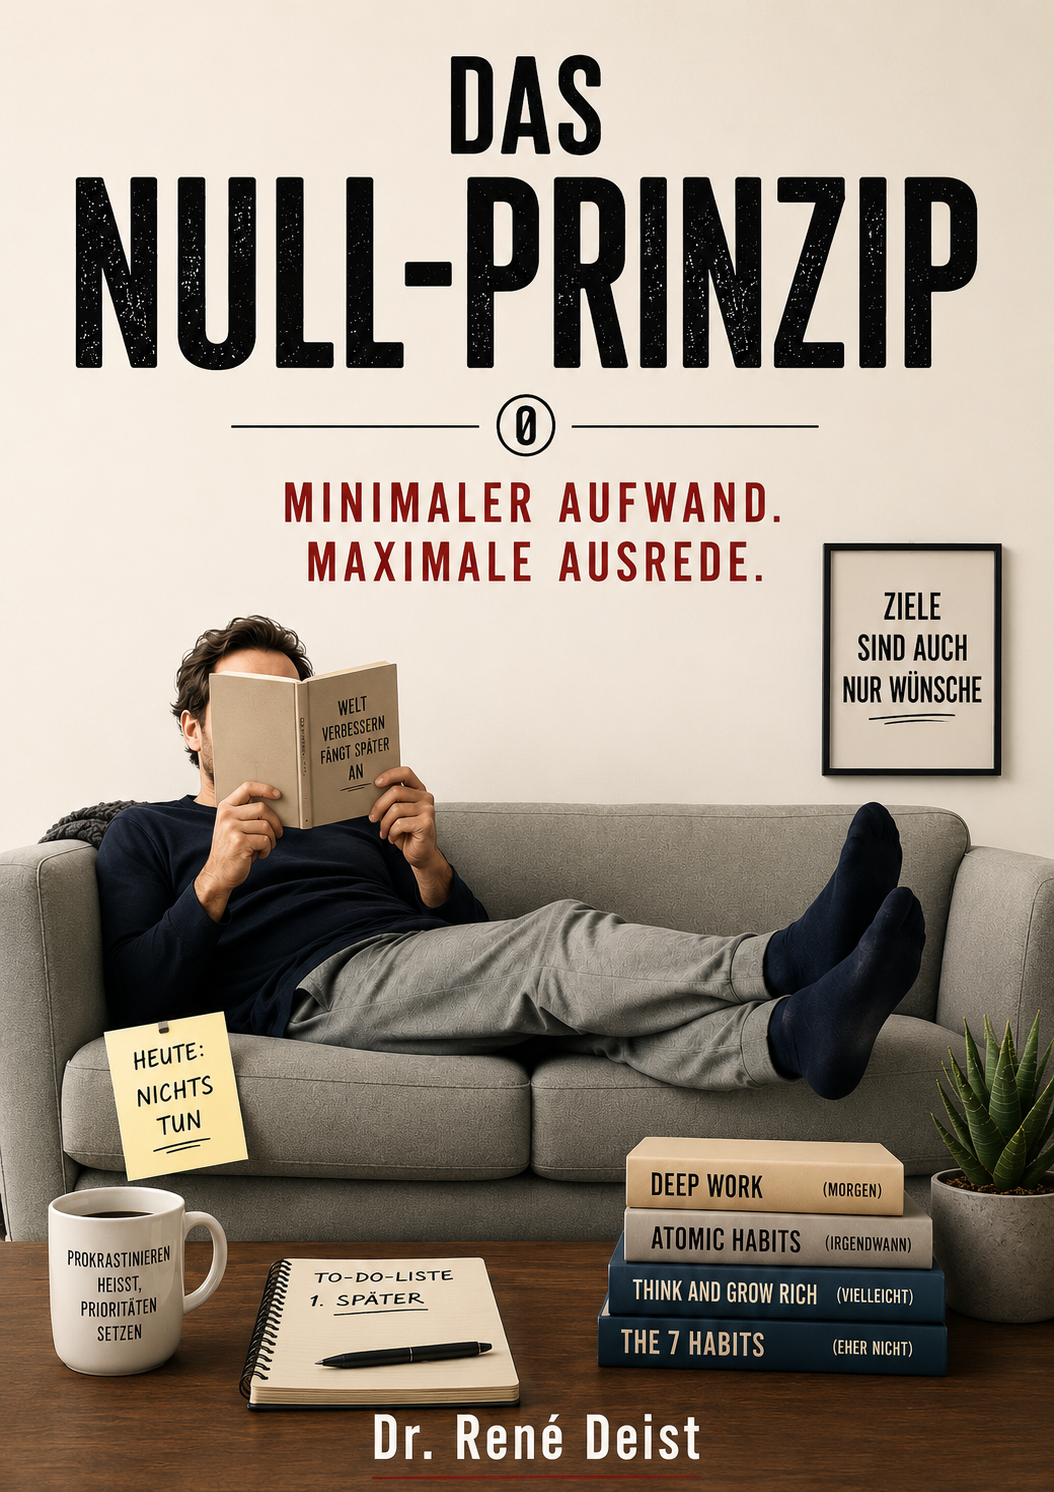
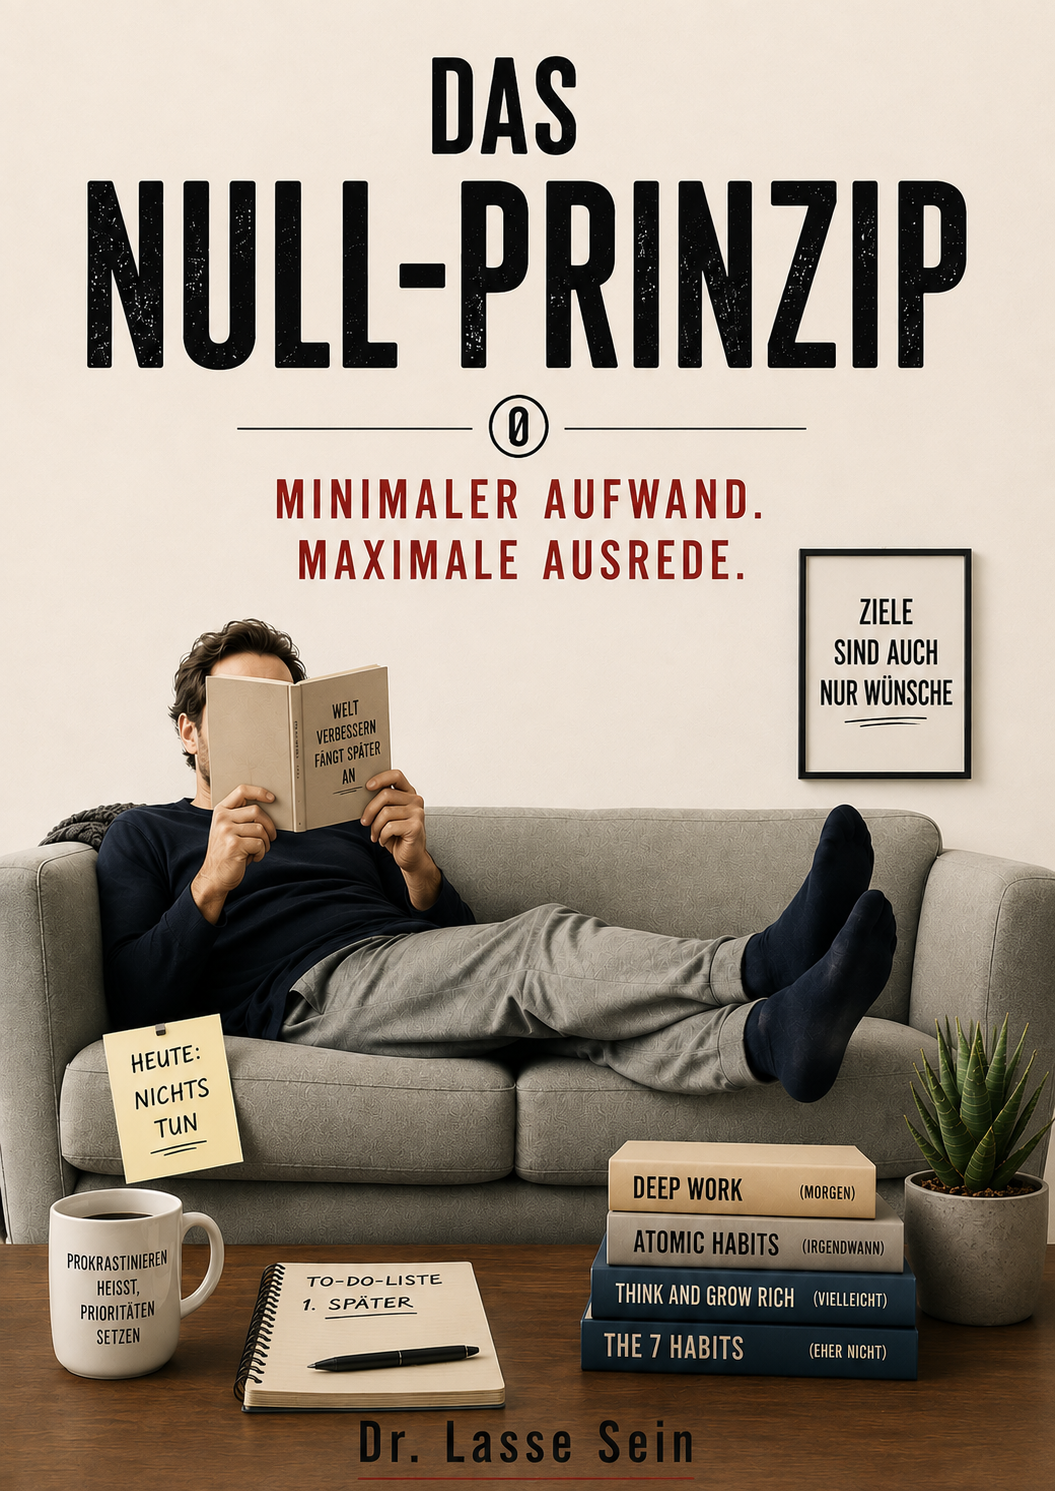
Replace author identity with Lasse Sein

diff --git a/Website/impressum.html b/Website/impressum.html
@@ -12,7 +12,7 @@
       <p class="section-kicker">Rechtliches</p>
       <h1>Impressum</h1>
       <p>Dieses Impressum ist ein Platzhalter und muss vor Veröffentlichung mit den korrekten Anbieterangaben ergänzt werden.</p>
-      <p><strong>Angaben gemäß § 5 DDG</strong><br>Dr. René Deist<br>Adresse ergänzen<br>Deutschland</p>
+      <p><strong>Angaben gemäß § 5 DDG</strong><br>Anbieterangaben vor Veröffentlichung ergänzen<br>Deutschland</p>
       <p><strong>Kontakt</strong><br>E-Mail-Adresse ergänzen</p>
       <p><a href="index.html">Zurück zur Startseite</a></p>
     </article>
